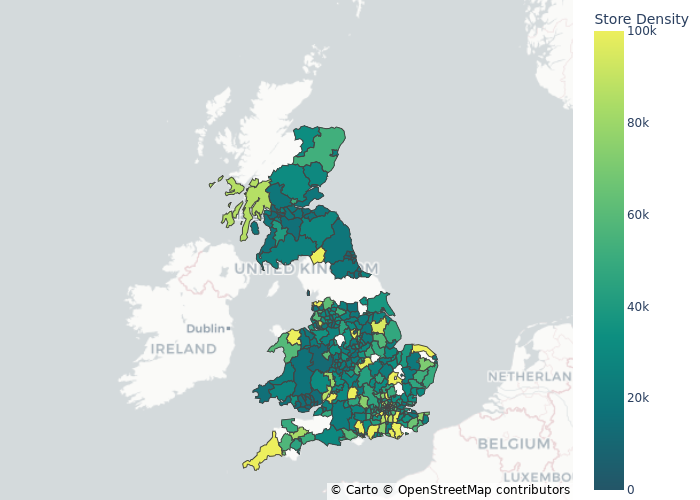
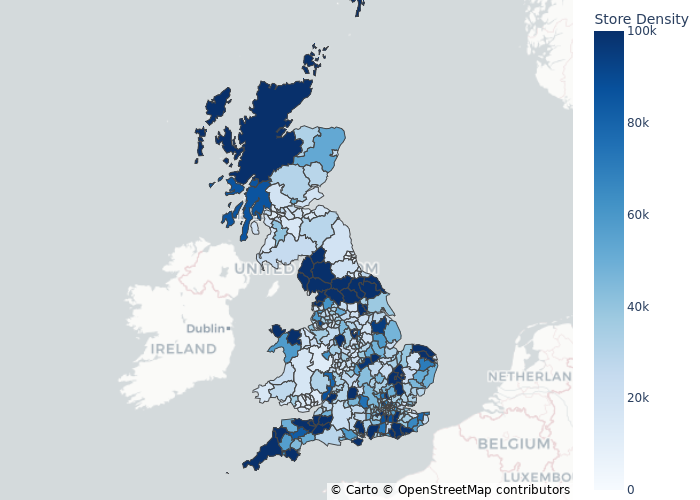
Log Colour Scales

Changed region(s): [[0.27, 0.09, 0.63, 0.96], [0.84, 0.06, 0.9, 0.99], [0.51, 0.0, 0.54, 0.03]]

diff --git a/Interactive.py b/Interactive.py
@@ -2,6 +2,7 @@ from urllib.request import urlopen
 import json
 import plotly.express as px
 import pandas as pd
+import numpy as np
 
 # Fetch the GeoJSON data of UK local authorities
 with urlopen('https://raw.githubusercontent.com/thomasvalentine/Choropleth/main/Local_Authority_Districts_(December_2021)_GB_BFC.json') as response:
@@ -19,25 +20,32 @@ store_density_data = pd.read_csv('/workspaces/Mapping/CSV Files/Raw Data for Gre
 # Merge store density data with GeoJSON data based on the 'LA' column
 merged_data = pd.merge(geojson_df, store_density_data, how='left', on='LA')
 
-# Create a choropleth map using Plotly Express
+# Convert non-numerical values to 200,000
+merged_data['Store_Density'] = pd.to_numeric(merged_data['Store_Density'], errors='coerce').fillna(200000)
+
+# Apply a logarithmic transformation to the store density values
+merged_data['Store_Density_Log'] = np.log10(merged_data['Store_Density'])
+
+# Create a choropleth map using Plotly Express with 'Blues' color scheme and inverted colors
 fig = px.choropleth_mapbox(
     merged_data,
     geojson=Local_authorities,
     locations='LA',
-    color='Store_Density',
+    color='Store_Density_Log',
     featureidkey="properties.LAD21CD",
-    color_continuous_scale="Aggrnyl",
-    color_continuous_midpoint=75,
-    range_color=[0, 100000],
+    color_continuous_scale="Blues_r",  # Use 'Blues_r' for inverted colors
     mapbox_style="carto-positron",
     center={"lat": 55.09621, "lon": -4.0286298},
     zoom=4.2,
-    labels={'Store_Density': 'Store Density'},
+    labels={'Store_Density_Log': 'Log Store Density'},
     hover_data=['Name', 'Store_Density']  # Specify columns to be displayed on hover
 )
 
 # Update layout and save the figure as a PNG file
 fig.update_layout(margin={"r": 0, "t": 0, "l": 0, "b": 0})
-fig.write_image('interactive_map_south.png')
+fig.write_image('interactive_map_south_blues_inverted_log.png')
 
 fig.show()
+
+
+

diff --git a/Final_southonly.py b/Final_southonly.py
@@ -19,14 +19,18 @@ store_density_data = pd.read_csv('/workspaces/Mapping/CSV Files/Raw Data for Gre
 # Merge store density data with GeoJSON data based on the 'LA' column
 merged_data = pd.merge(geojson_df, store_density_data, how='left', on='LA')
 
-# Create a choropleth map using Plotly Express with dark red to dark blue color scale up to 150k
+# Define color scale with grey for NaN values
+color_scale = px.colors.sequential.Blues
+color_scale.insert(0, '#808080')  # Add grey as the first color
+
+# Create a choropleth map using Plotly Express
 fig = px.choropleth_mapbox(
     merged_data,
     geojson=Local_authorities,
     locations='LA',
     color='Store_Density',
     featureidkey="properties.LAD21CD",
-    color_continuous_scale="magma",  # Use the RdBu color scale
+    color_continuous_scale=color_scale,  # Use the modified color scale
     color_continuous_midpoint=75,  # Set midpoint for transition
     range_color=[0, 100000],  # Set the expanded range of values
     mapbox_style="carto-positron",
@@ -37,5 +41,6 @@ fig = px.choropleth_mapbox(
 
 # Update layout and save the figure as a PNG file
 fig.update_layout(margin={"r": 0, "t": 0, "l": 0, "b": 0})
-fig.write_image('south_only.png')
+fig.write_image('south_with_grey.png')
+
 
